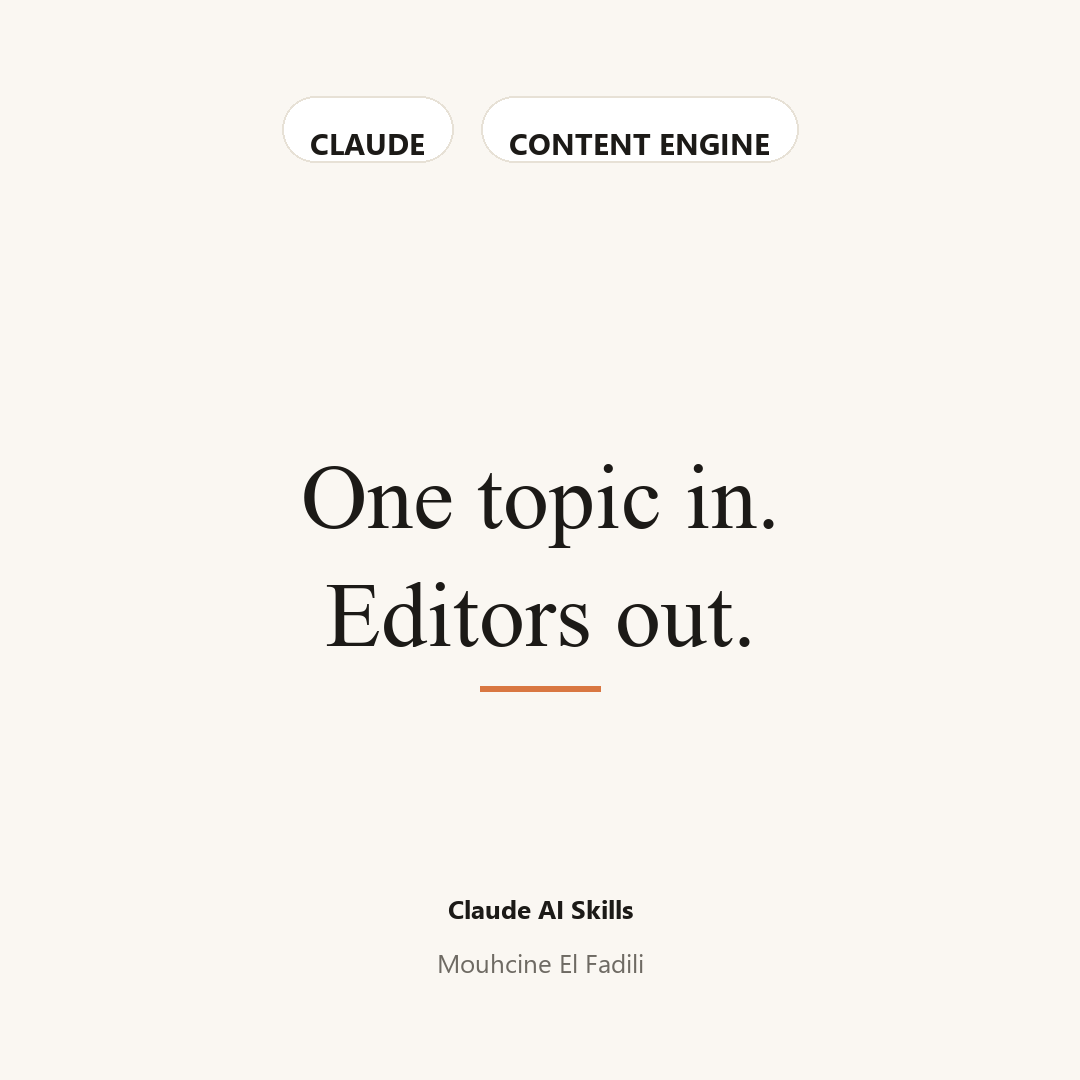
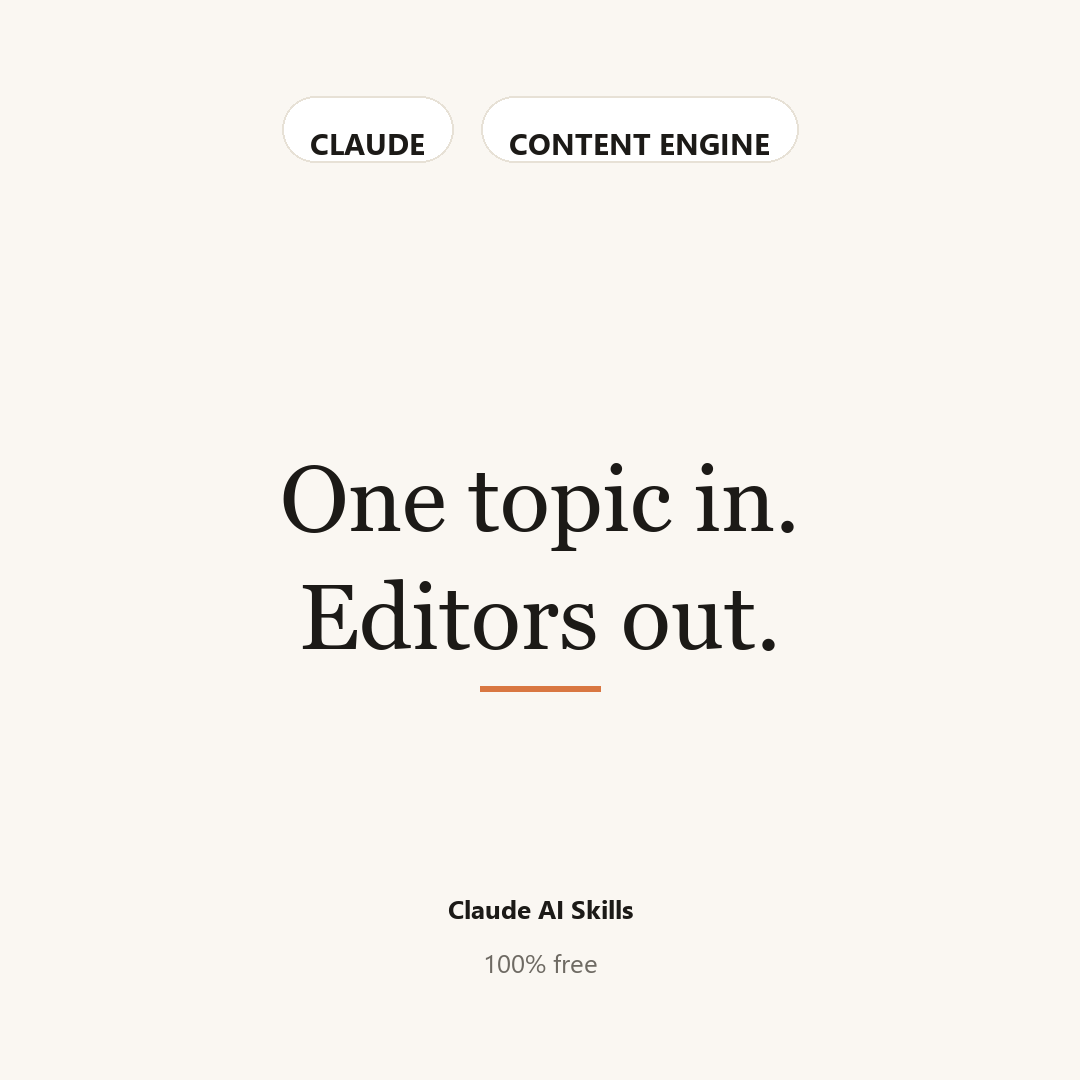
Add LinkedIn Outbound Sales skill + dark landing

Changed region(s): [[0.2444, 0.4278, 0.7333, 0.6111], [0.3972, 0.8861, 0.6111, 0.9167]]

diff --git a/skills/linkedin-outbound-sales/index.html b/skills/linkedin-outbound-sales/index.html
@@ -3,20 +3,20 @@
 <head>
 <meta charset="utf-8">
 <meta name="viewport" content="width=device-width, initial-scale=1">
-<title>Content Engine - free Claude skill</title>
-<meta name="description" content="One topic in. Outline, draft, and 5 titles out. Get the Content Engine skill free for Claude, no ads, no card.">
+<title>LinkedIn Outbound Sales - free Claude skill</title>
+<meta name="description" content="Connection notes that get replies. No pitch until they answer. Get the LinkedIn Outbound Sales skill free for Claude, no ads, no card.">
 <link rel="stylesheet" href="../../assets/site.css">
 </head>
-<body class="">
+<body class="dark">
 <div class="brandbar"><div class="wrap"><b>Claude AI Skills</b></div></div>
 <div class="wrap">
-  <div class="chips"><span class="chip">CLAUDE</span><span class="chip">CONTENT ENGINE</span></div>
-  <h1>Content Engine</h1>
-  <p class="lede">One topic in. Outline, draft, and 5 titles out.</p>
-  <div class="examples"><b>Try it</b><p>Try it with: "One article about scheduling content for a small business."</p></div>
-  <div class="cards"><div class="card"><div><b>01</b><p>One command: type a topic, get outline + draft + 5 titles</p></div></div><div class="card"><div><b>02</b><p>Fixed article blueprint so every post follows the same winning structure</p></div></div><div class="card"><div><b>03</b><p>Voice rules that kill corporate filler and make it readable out loud</p></div></div><div class="card"><div><b>04</b><p>Works in Claude, Codex, and any AI chat tool on the market</p></div></div><div class="card"><div><b>05</b><p>2-minute install, no ads, no data collection</p></div></div></div>
+  <div class="chips"><span class="chip">CLAUDE</span><span class="chip">LINKEDIN</span></div>
+  <h1>LinkedIn Outbound Sales</h1>
+  <p class="lede">Connection notes that get replies. No pitch until they answer.</p>
+  <div class="examples"><b>Try it</b><p>Try it with: "Outreach for a SaaS founder selling to HR teams; prospect is an HR director at a 200-person logistics company."</p></div>
+  <div class="cards"><div class="card"><div><b>01</b><p>One-line persona in, full outreach package out: connection request, thanks note, follow-up, comments</p></div></div><div class="card"><div><b>02</b><p>Connection request under 300 characters with a real hook, zero pitching</p></div></div><div class="card"><div><b>03</b><p>Follow-up that adds value and stops nagging - one shot, then silence</p></div></div><div class="card"><div><b>04</b><p>Value-add comments written for their actual posts, not 'Great post!'</p></div></div><div class="card"><div><b>05</b><p>2-minute install, works in Claude, Codex, and any AI chat tool</p></div></div></div>
   <div class="formcard" id="get">
-    <h2>Get Content Engine - free</h2>
+    <h2>Get LinkedIn Outbound Sales - free</h2>
     <p class="sub">Enter your email and I'll send you the skill files and the 2-minute install guide.</p>
     <form id="gform" novalidate>
       <div class="frow"><label for="nm">First name</label><input type="text" id="nm" name="name" required></div>
@@ -26,7 +26,7 @@
     <div class="success" id="ok">
       <h3>Check your inbox</h3>
       <p>Your download is on the way. You can also grab it right now:
-      <a href="https://claudeaiskills.github.io/claude-ai-skills/zips/content-engine.zip" target="_blank" rel="noopener">Download content-engine.zip</a></p>
+      <a href="https://claudeaiskills.github.io/claude-ai-skills/zips/linkedin-outbound-sales.zip" target="_blank" rel="noopener">Download linkedin-outbound-sales.zip</a></p>
     </div>
   </div>
   <div class="upsell soon">
@@ -49,10 +49,10 @@ form.addEventListener('submit', function (e) {
   const btn = form.querySelector('button');
   btn.disabled = true; btn.textContent = 'Sending...';
   const payload = {
-    skill: "content-engine",
+    skill: "linkedin-outbound-sales",
     name: document.getElementById('nm').value.trim(),
     email: document.getElementById('em').value.trim(),
-    zipUrl: "https://claudeaiskills.github.io/claude-ai-skills/zips/content-engine.zip",
+    zipUrl: "https://claudeaiskills.github.io/claude-ai-skills/zips/linkedin-outbound-sales.zip",
     page: window.location.href
   };
   fetch(FORM_URL, { method: 'POST', mode: 'no-cors', headers: { 'Content-Type': 'text/plain;charset=utf-8' }, body: JSON.stringify(payload) })

diff --git a/index.html b/index.html
@@ -4,16 +4,16 @@
 <meta charset="utf-8">
 <meta name="viewport" content="width=device-width, initial-scale=1">
 <title>Claude AI Skills - free AI skills</title>
-<meta name="description" content="Free, ready-to-use skills for Claude. Drop a topic in, get real output out.">
+<meta name="description" content="Free, ready-to-use skills for Claude. Drop a prompt in, get real output out.">
 <link rel="stylesheet" href="assets/site.css">
 </head>
 <body>
-<div class="brandbar"><div class="wrap"><b>Claude AI Skills</b><span>Mouhcine El Fadili</span></div></div>
+<div class="brandbar"><div class="wrap"><b>Claude AI Skills</b></div></div>
 <div class="wrap">
   <h1>Free skills that do real work</h1>
   <p class="lede">Each skill is a folder you drop into Claude. One command, real output. No setup, no card.</p>
-  <div class="cards"><div class="card"><div><b>Content Engine</b><p>Turns any topic into a publish-ready article package in a single run. <a href="skills/content-engine/">Get it free</a></p></div></div></div>
+  <div class="cards"><div class="card"><div><b>Content Engine</b><p>One topic in. Outline, draft, and 5 titles out. <a href="skills/content-engine/">Get it free</a></p></div></div><div class="card"><div><b>LinkedIn Outbound Sales</b><p>Connection notes that get replies. No pitch until they answer. <a href="skills/linkedin-outbound-sales/">Get it free</a></p></div></div></div>
 </div>
-<footer><div class="wrap">&copy; Mouhcine El Fadili - Claude AI Skills.</div></footer>
+<footer><div class="wrap">&copy; Claude AI Skills.</div></footer>
 </body>
 </html>

diff --git a/assets/site.css b/assets/site.css
@@ -14,6 +14,16 @@ body {
   line-height: 1.6;
   -webkit-font-smoothing: antialiased;
 }
+body.dark {
+  --paper: #0b1230;
+  --ink: #f5f1e6;
+  --muted: #aab3d4;
+  --line: #2a3560;
+  --accent: #f2c94c;
+  --card: #111a3d;
+}
+body.dark .upsell a { border-color: var(--ink); color: var(--ink); }
+body.dark .upsell a:hover { background: var(--ink); color: var(--paper); }
 .wrap { max-width: 720px; margin: 0 auto; padding: 0 20px; }
 .brandbar {
   padding: 18px 0 14px;
